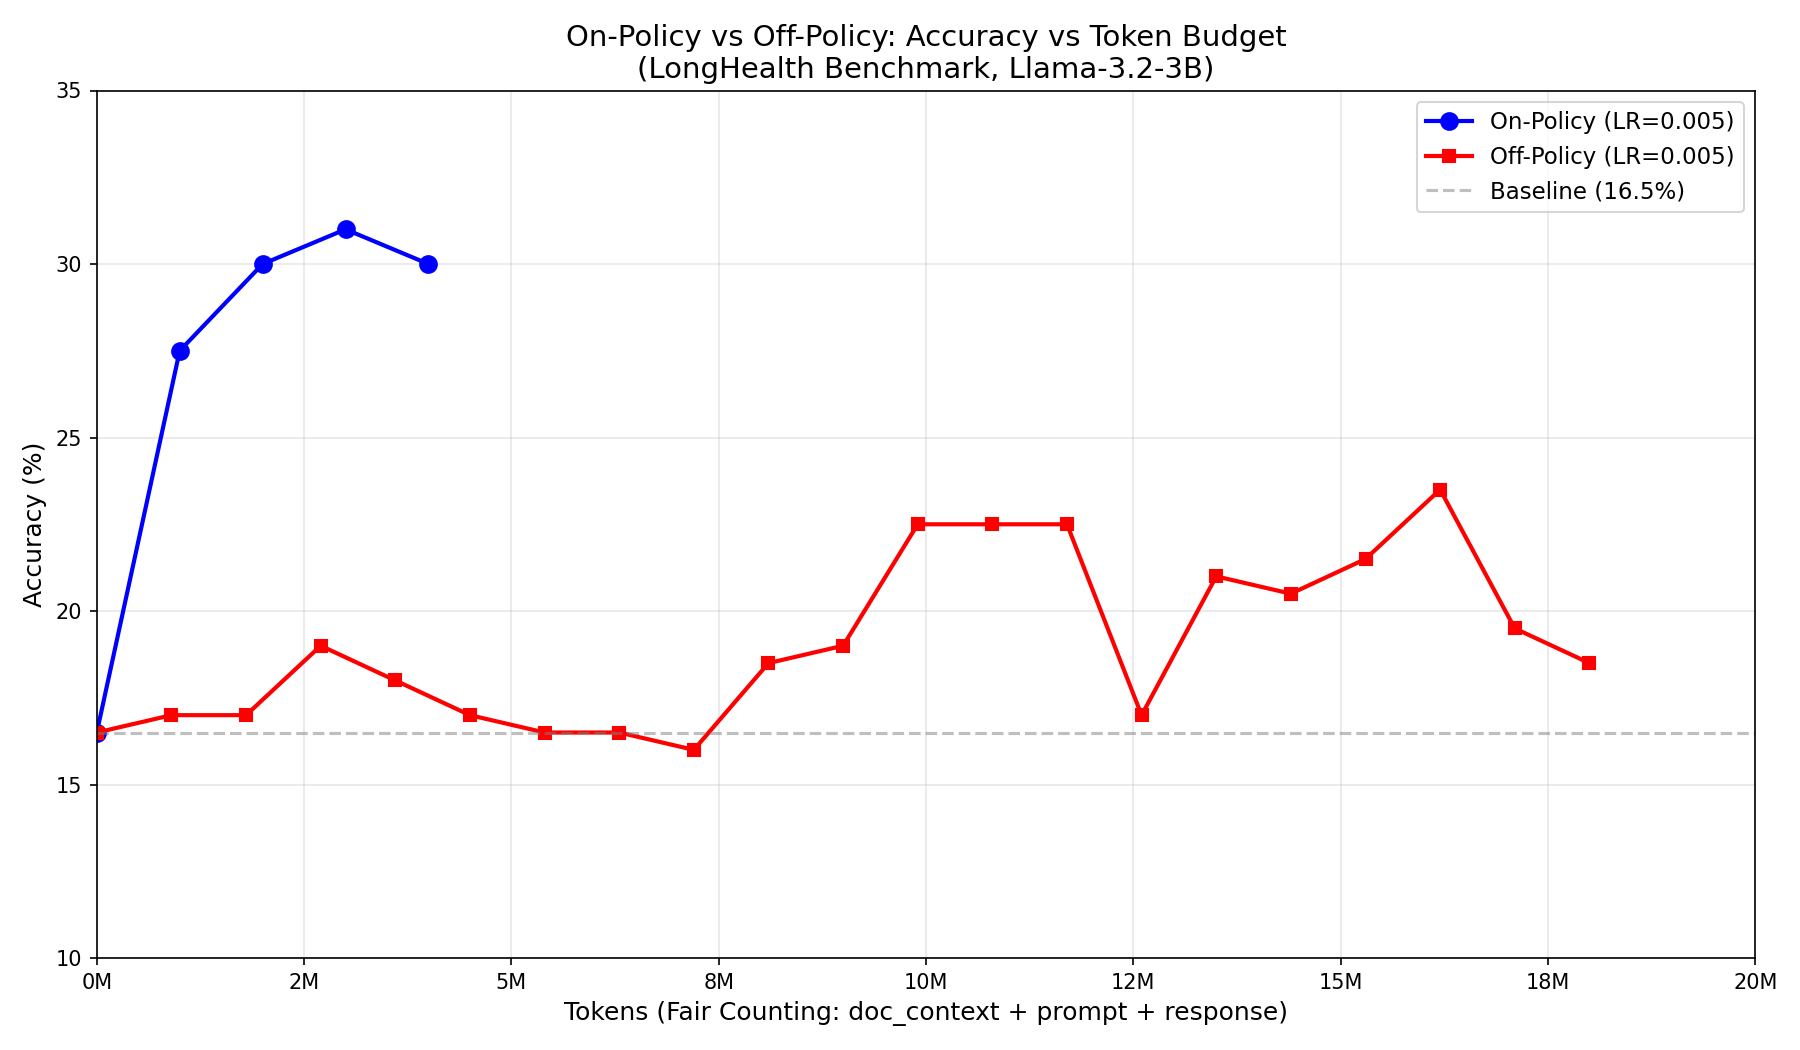
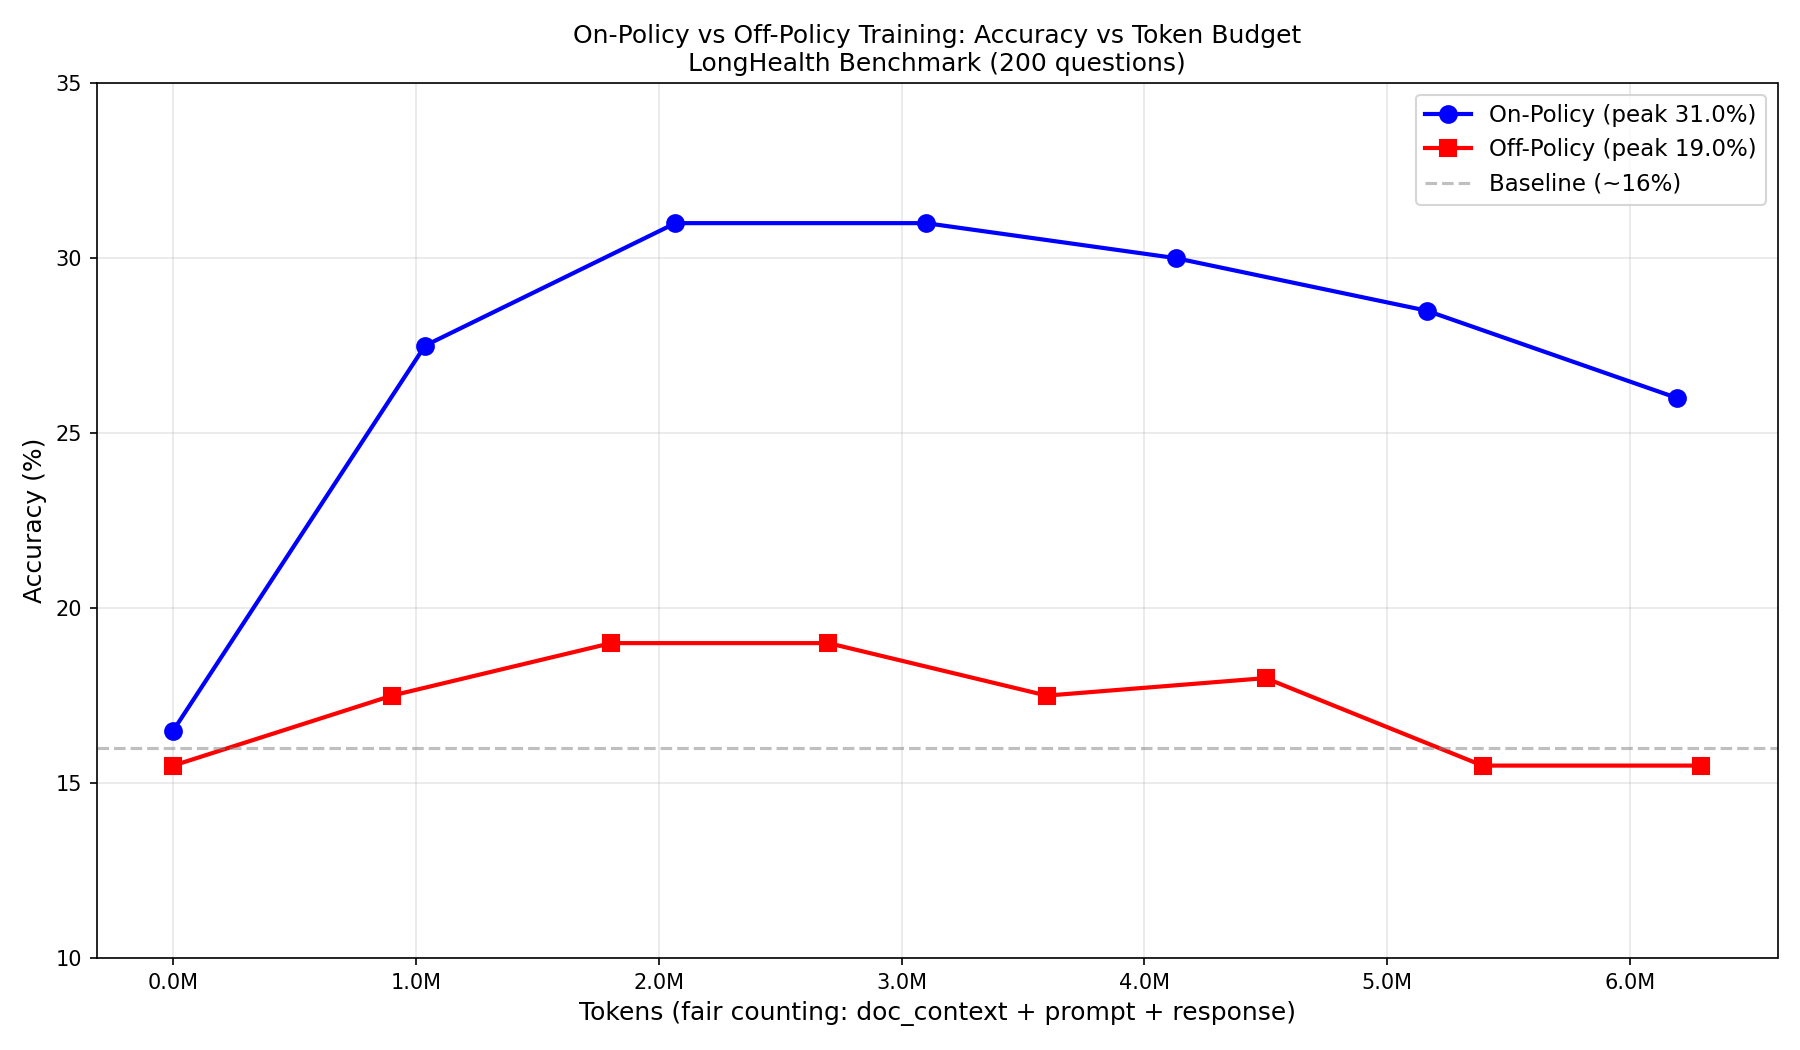
Fix cache init to match paper: use first p tokens of concatenated corpus, switch to Llama-8B
Key fixes:
1. Cache init now takes FIRST p tokens of concatenated corpus (not split across patients)
2. Switched from Llama-3.2-3B to Llama-3.1-8B to match paper's LongHealth experiments
3. This should improve baseline from ~16% to ~30% like paper

diff --git a/scripts/local_cartridge_train.py b/scripts/local_cartridge_train.py
@@ -533,27 +533,26 @@ def train(
     # ==========================================================================
     logger.info("-" * 50)
     logger.info(f"Initializing trainable cache with {num_tokens} tokens...")
-    logger.info("  - Using PATIENT DOCUMENT initialization (per Cartridges paper)")
+    logger.info("  - Using FIRST P TOKENS initialization (per Cartridges paper Section 3)")
     
-    # Get the patients we're training on
+    # PAPER METHOD: Concatenate all patient documents, then take FIRST p tokens
+    # "We initialize the trainable cache from the first p tokens of the target corpus"
     training_patients = sorted(train_df["patient_id"].unique())
     logger.info(f"  - Training patients: {training_patients}")
     
-    # Create initialization text from patient documents
-    # Take first (num_tokens // num_patients) tokens from each patient
-    tokens_per_patient = num_tokens // len(training_patients)
-    init_text_parts = []
+    # Concatenate ALL patient documents into one corpus (like paper does)
+    corpus_parts = []
     for pid in training_patients:
         if pid in patient_doc_texts:
-            # Get the first portion of this patient's document
-            doc_text = patient_doc_texts[pid]
-            # Truncate to approximately tokens_per_patient worth of text
-            # (rough estimate: 4 chars per token)
-            char_limit = tokens_per_patient * 4
-            init_text_parts.append(doc_text[:char_limit])
+            corpus_parts.append(patient_doc_texts[pid])
     
-    init_text = "\n\n".join(init_text_parts)
-    logger.info(f"  - Initialization text: {len(init_text):,} chars from {len(init_text_parts)} patients")
+    full_corpus = "\n\n".join(corpus_parts)
+    logger.info(f"  - Full corpus: {len(full_corpus):,} chars from {len(corpus_parts)} patients")
+    
+    # Take just the FIRST portion (will be truncated to num_tokens by KVFromText)
+    # No need to pre-truncate - KVFromText handles max_tokens
+    init_text = full_corpus
+    logger.info(f"  - Init will use first {num_tokens} tokens of concatenated corpus")
     
     # Write to temp file for KVFromText initializer
     with tempfile.NamedTemporaryFile(mode='w', suffix='.txt', delete=False) as f:

diff --git a/scripts/local_offpolicy_train.py b/scripts/local_offpolicy_train.py
@@ -579,17 +579,23 @@ def train_offpolicy(
     logger.info(f"Loaded {len(eval_questions)} eval questions")
     
     # Initialize cache from patient documents (MUST MATCH on-policy exactly!)
-    # Use the SAME patients as on-policy training: patients 1-10 (from training data)
+    # PAPER METHOD: Concatenate all patient documents, then take FIRST p tokens
+    # "We initialize the trainable cache from the first p tokens of the target corpus"
     TRAIN_PATIENT_IDS = {f"patient_{i:02d}" for i in range(1, 11)}
     training_patients = sorted([pid for pid in patient_doc_texts.keys() if pid in TRAIN_PATIENT_IDS])
-    logger.info(f"  - Training patients (sorted, matching on-policy): {training_patients}")
-    tokens_per_patient = num_tokens // len(training_patients)
-    init_text_parts = []
+    logger.info(f"  - Training patients (sorted): {training_patients}")
+    
+    # Concatenate ALL patient documents into one corpus (like paper does)
+    corpus_parts = []
     for pid in training_patients:
-        doc_text = patient_doc_texts[pid]
-        char_limit = tokens_per_patient * 4
-        init_text_parts.append(doc_text[:char_limit])
-    init_text = "\n\n".join(init_text_parts)
+        corpus_parts.append(patient_doc_texts[pid])
+    
+    full_corpus = "\n\n".join(corpus_parts)
+    logger.info(f"  - Full corpus: {len(full_corpus):,} chars from {len(corpus_parts)} patients")
+    
+    # Take FIRST p tokens of concatenated corpus (KVFromText handles truncation)
+    init_text = full_corpus
+    logger.info(f"  - Init will use first {num_tokens} tokens of concatenated corpus")
     
     with tempfile.NamedTemporaryFile(mode='w', suffix='.txt', delete=False) as f:
         f.write(init_text)

diff --git a/scripts/modal_onpolicy_compare.py b/scripts/modal_onpolicy_compare.py
@@ -70,7 +70,7 @@ def train(total_steps: int = 1000, batch_size: int = 4, lr: float = 0.005, eval_
 
     cmd = [
         sys.executable, "/opt/workspace/scripts/local_cartridge_train.py",
-        "--model", "meta-llama/Llama-3.2-3B-Instruct",
+        "--model", "meta-llama/Llama-3.1-8B-Instruct",
         "--train-parquet", train_parquet,
         "--num-tokens", "512",
         "--lr", str(lr),

diff --git a/scripts/modal_offpolicy_compare.py b/scripts/modal_offpolicy_compare.py
@@ -86,7 +86,7 @@ def train(total_steps: int = 1000, batch_size: int = 4, lr: float = 0.005, eval_
 
     cmd = [
         sys.executable, "/opt/workspace/scripts/local_offpolicy_train.py",
-        "--model", "meta-llama/Llama-3.2-3B-Instruct",
+        "--model", "meta-llama/Llama-3.1-8B-Instruct",
         "--hf-shard-dir", data_dir,
         "--num-tokens", "512",
         "--lr", str(lr),
